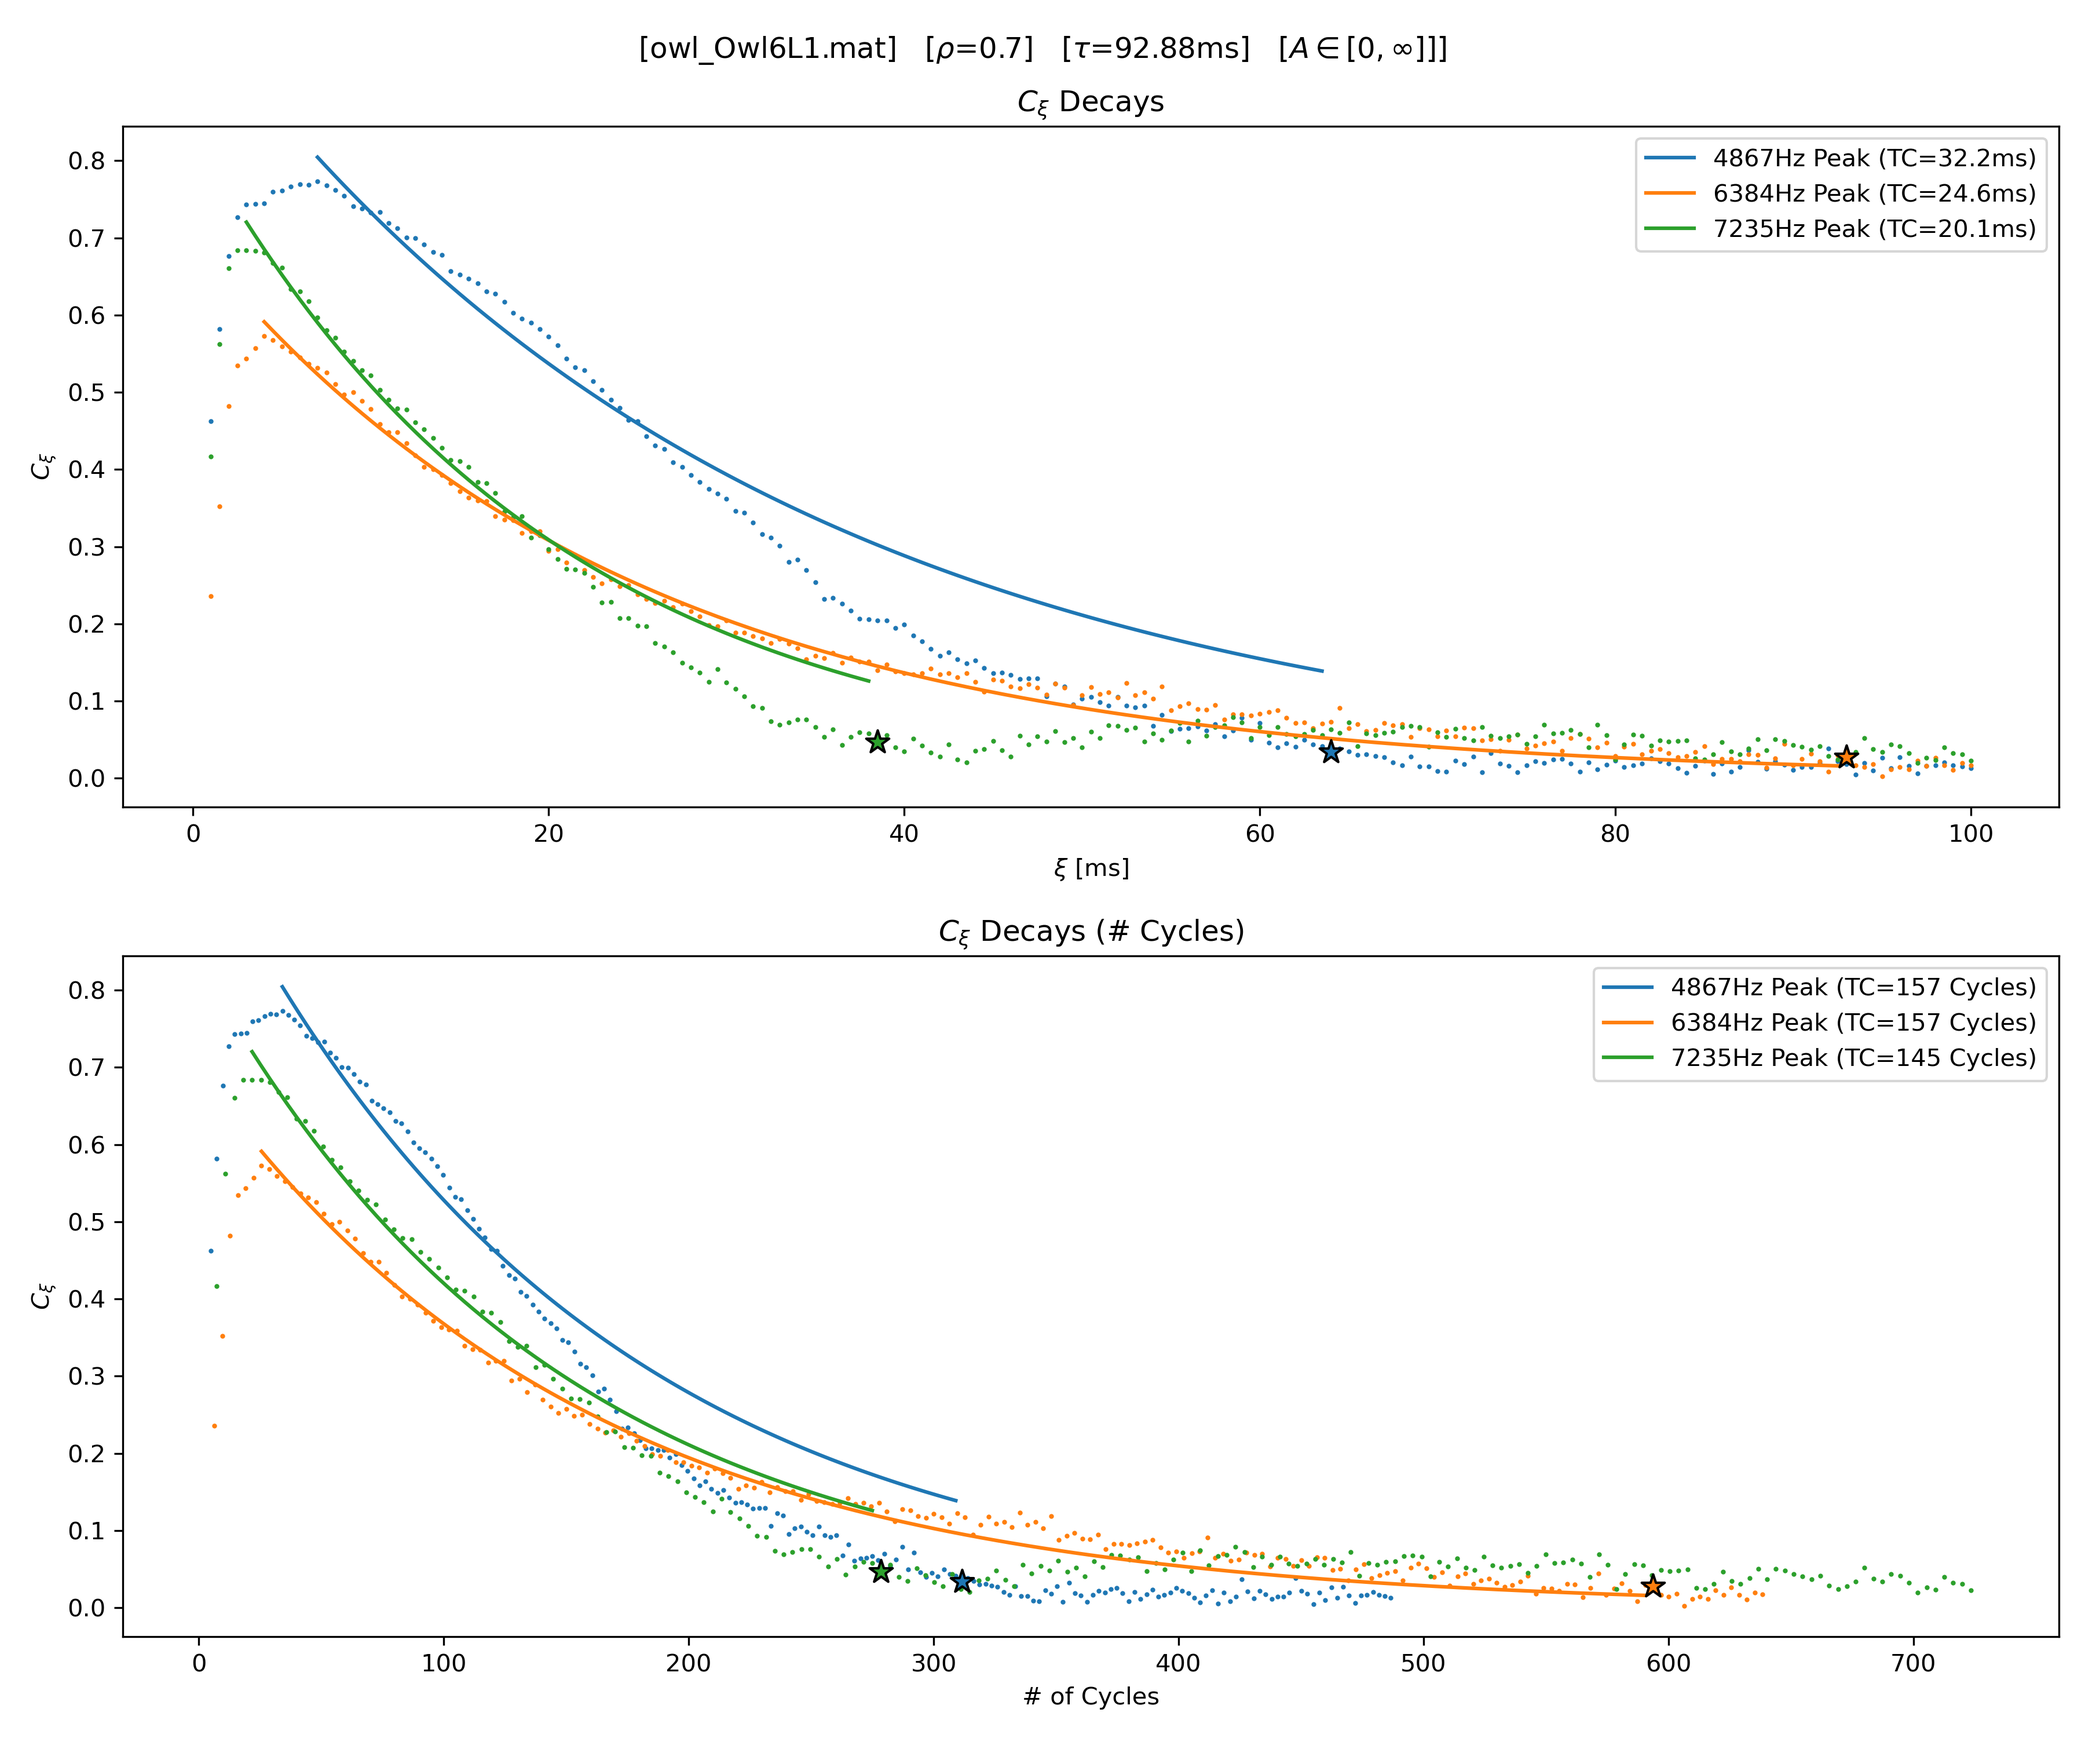
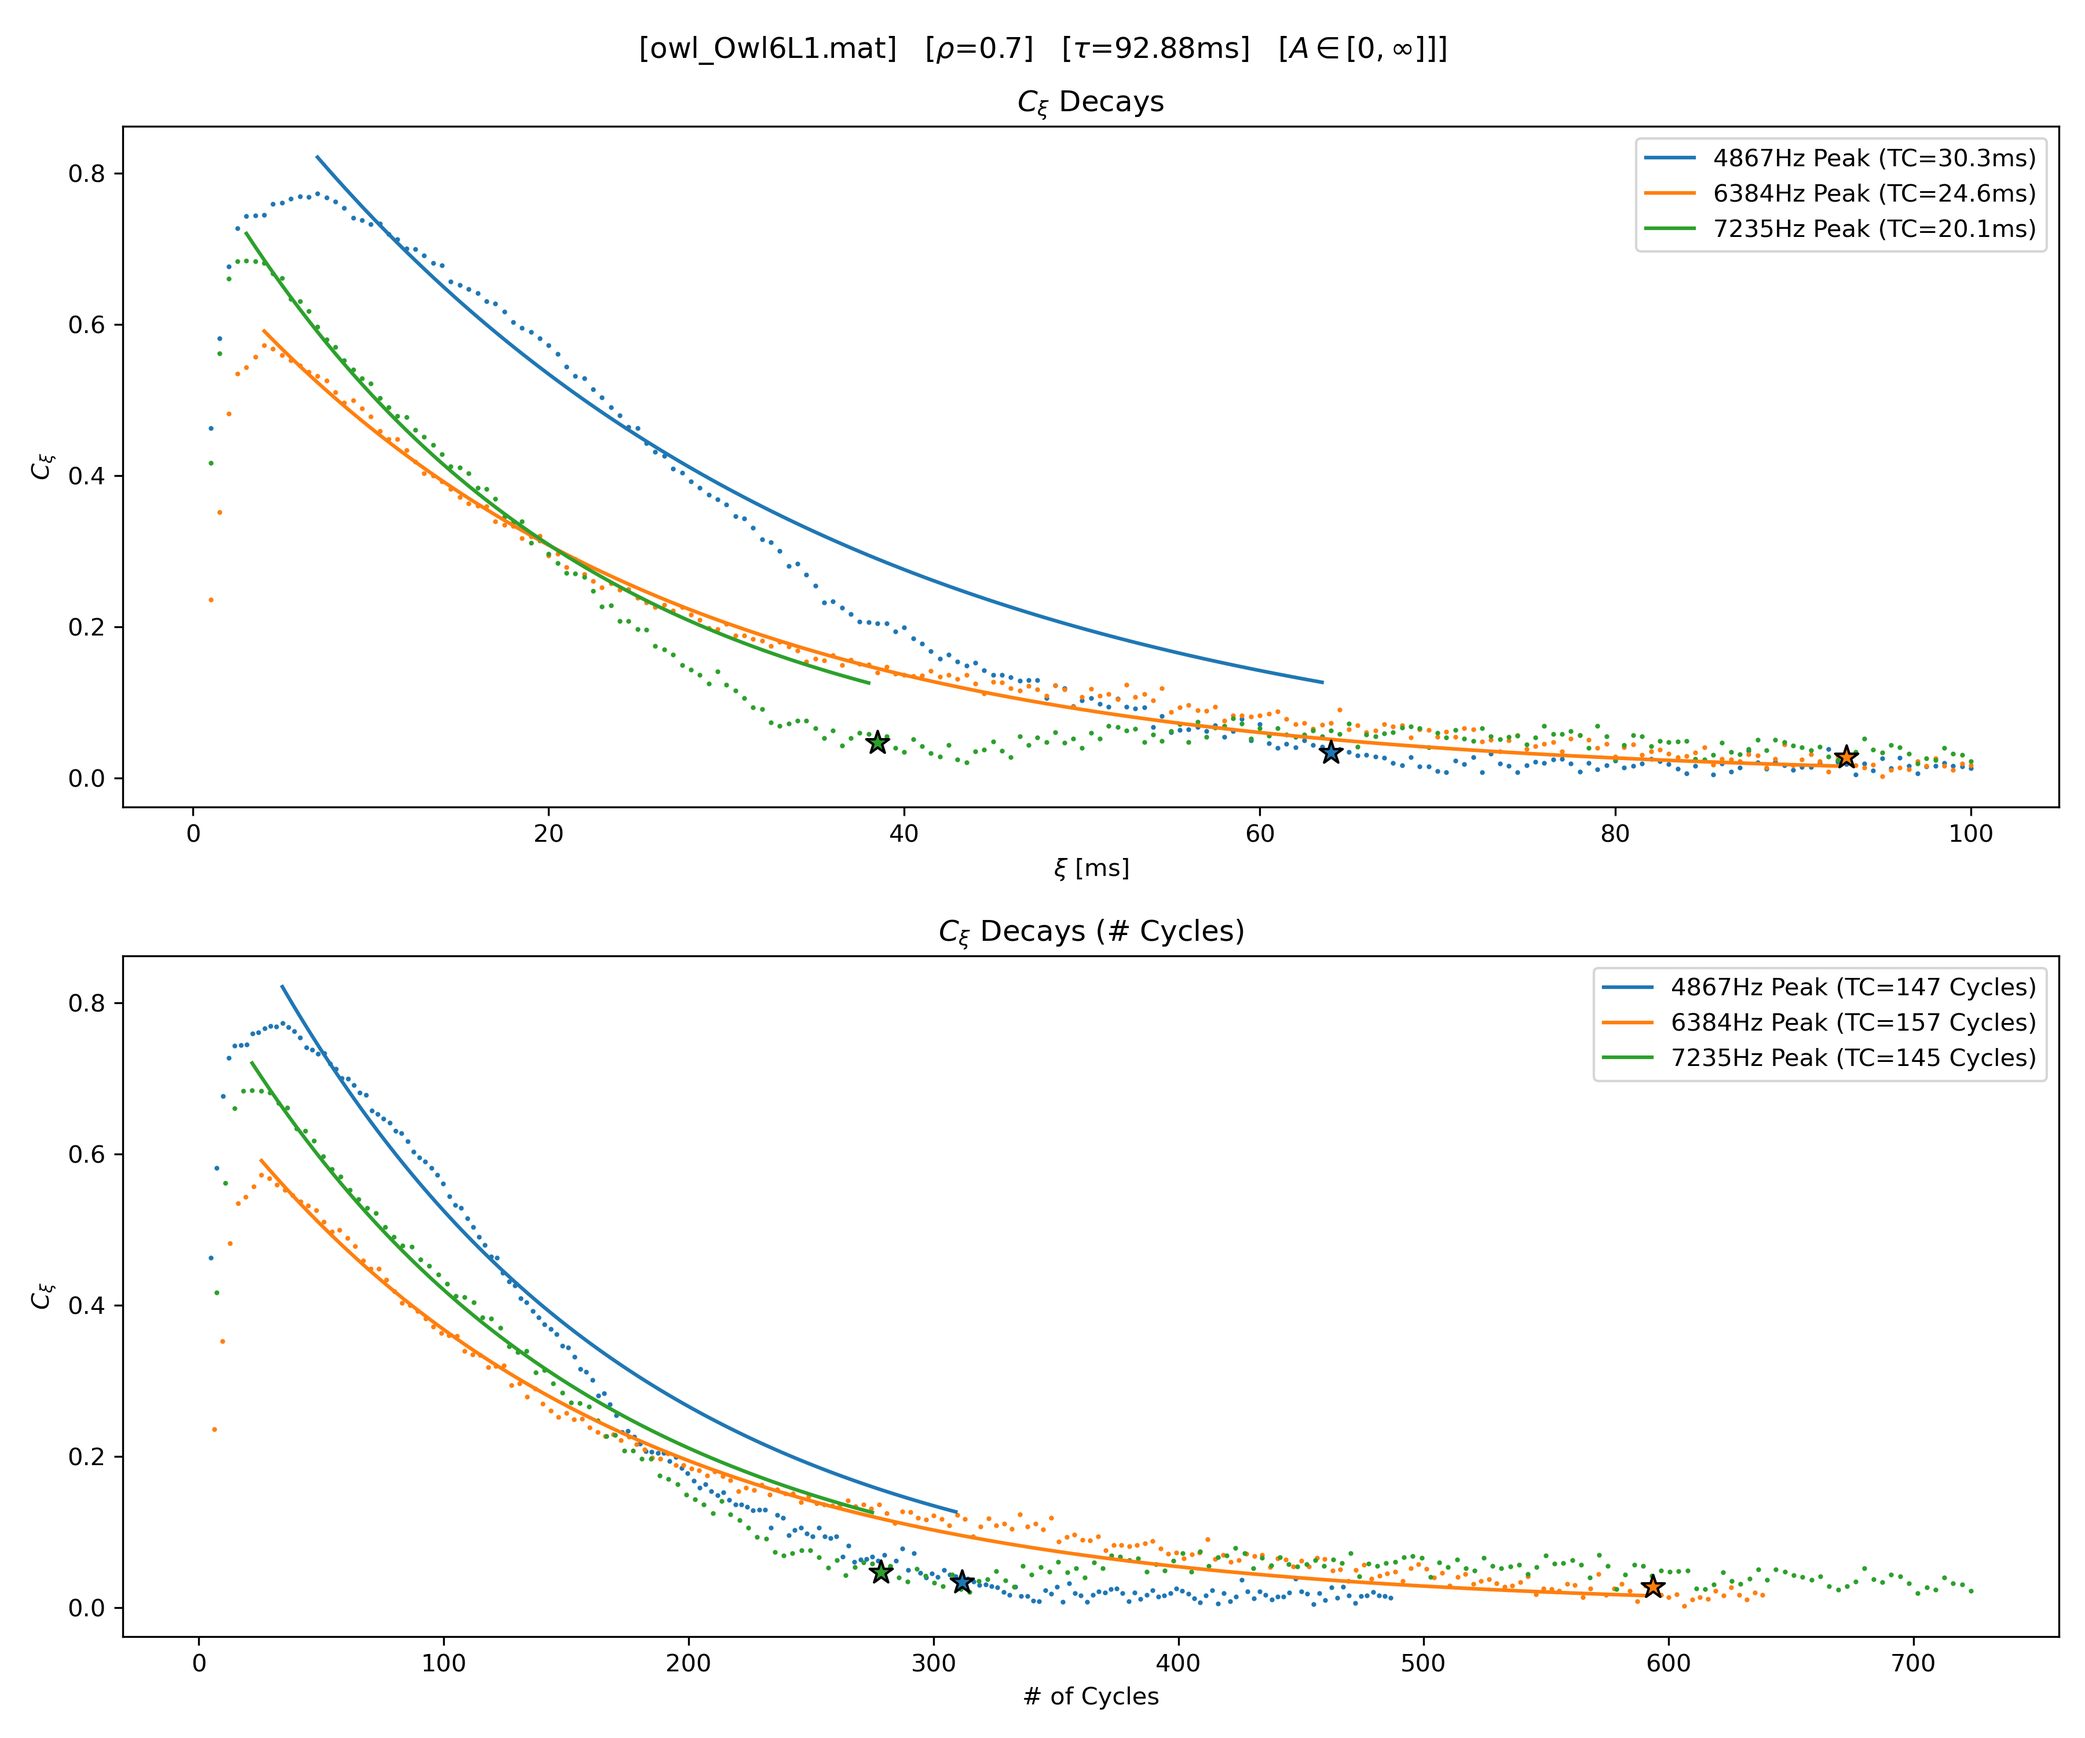
fixed error

diff --git a/c_xi_decay.py b/c_xi_decay.py
@@ -173,7 +173,7 @@ for wf_idx in tqdm([0, 2, 4, 5, 6, 7]):
     min_fit_xi_idx = 1
     trim_step = 5
     sigma_weighting_power = 1 # > 0 means less weight on lower coherence bins
-    A_restrict = True
+    A_restrict = False
          
 
     # Plotting parameters
@@ -229,7 +229,7 @@ for wf_idx in tqdm([0, 2, 4, 5, 6, 7]):
             popt = None
             while len(x_fit) > trim_step and popt is None:
                 try:
-                    popt, pcov = curve_fit(exp_decay, x_fit, y_fit, p0=[1, 1], sigma=sigma, bounds=([0, 0], [1, A_max]), absolute_sigma=True)
+                    popt, pcov = curve_fit(exp_decay, x_fit, y_fit, p0=[1, 1], sigma=sigma, bounds=([0, 0], [A_max, np.inf]), absolute_sigma=True)
                     break  # Fit succeeded!
                 except (RuntimeError, ValueError) as e:
                     attempts += 1
